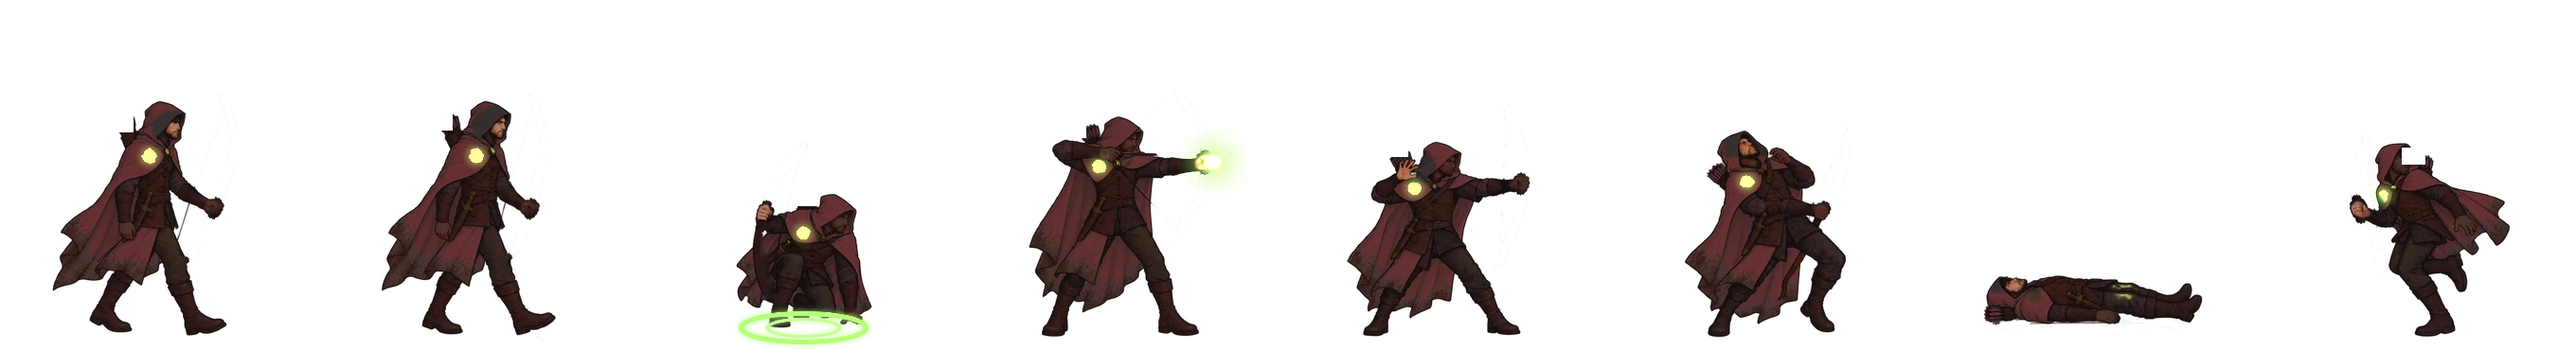
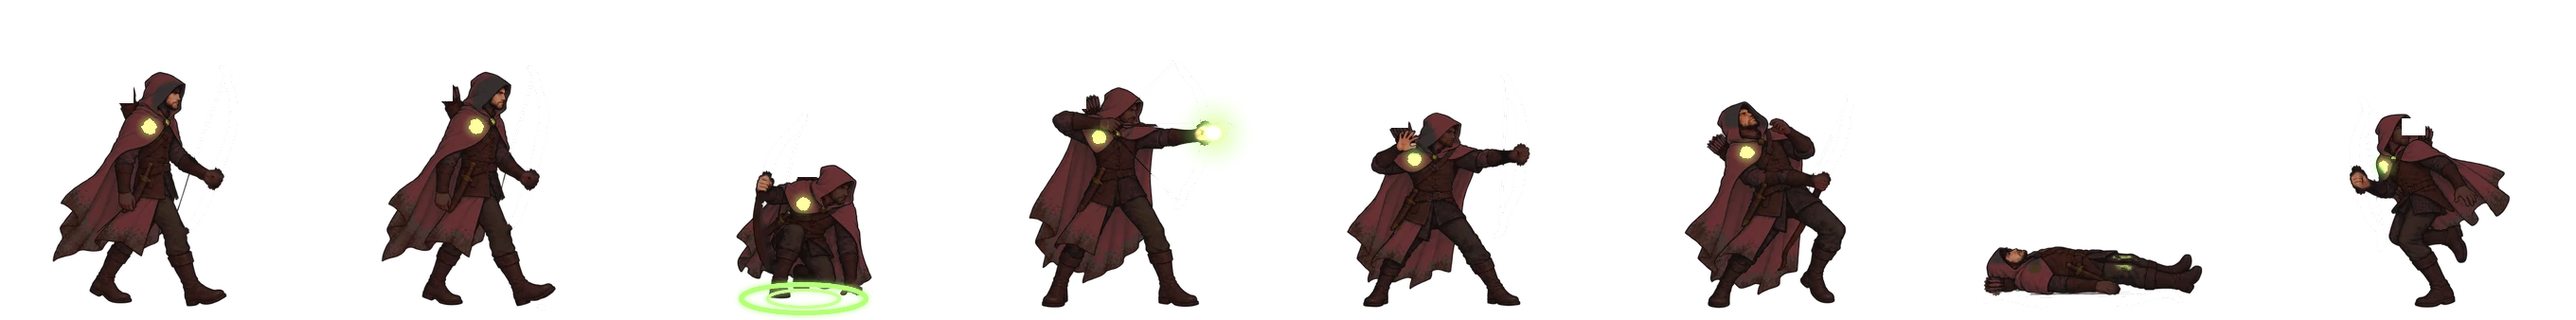
Stage 4 cultist: 340x338 cells so the painted figure stands ~172 px like the painter's

diff --git a/src/stage4.js b/src/stage4.js
@@ -38,8 +38,8 @@ export function queueStage4(scene) {
   img('bg4far', 'assets/bg4/bg4-far.jpg'); img('bg4mid', 'assets/bg4/bg4-mid.webp'); img('bg4mid2', 'assets/bg4/bg4-mid2.webp');
   for (const n of ['', '2', '3']) img('bg4floor' + n, `assets/bg4/bg4-floor${n}.jpg`);
   for (const n of [1, 2, 3]) img('story4p' + n, `assets/story/story4_panel_${n}.jpg`);
-  // Painted cultist sheet (tools/stage4/reskin_cultist.py): same 8 poses as the painter, 340x370 cells.
-  if (!has('s4cult')) L.spritesheet('s4cult', 'assets/bg4/s4cult.webp', { frameWidth: 340, frameHeight: 370 });
+  // Painted cultist sheet (tools/stage4/reskin_cultist.py): same 8 poses as the painter, 340x338 cells.
+  if (!has('s4cult')) L.spritesheet('s4cult', 'assets/bg4/s4cult.webp', { frameWidth: 340, frameHeight: 338 });
   if (scene.cache.json.get('cutthroat.A')) queueCharPages(scene, ['cutthroat']);
   else {
     L.json('cutthroat.A', 'assets/stage3/chars/cutthroat.anims.json');

diff --git a/tools/stage4/reskin_cultist.py b/tools/stage4/reskin_cultist.py
@@ -26,7 +26,7 @@ import reskin_lib as RL
 
 SRC = 'assets/chars'
 OUT = 'assets/bg4/s4cult.webp'
-CELL_W, CELL_H = 340, 370
+CELL_W, CELL_H = 340, 338
 BASE_Y = 327            # archer baseline in its 558x347 source canvas
 FOOT = round(CELL_H * 0.96)
 # (source frame, mirror). The archer faces left; the cultist sheet faces right like the procedural one.

diff --git a/docs/stage4/STATUS.md b/docs/stage4/STATUS.md
@@ -16,7 +16,7 @@ Painted (Grok Bot image generation, 2026-10-07; provenance in `assets/bg4/ART_ST
 
 - `bg4-far.jpg` 1280x602 moonlit skyline. `bg4-mid.webp` 1280x502 (Gate of Aridhol, dry fountain plaza) and `bg4-mid2.webp` 1280x588 (Tower Row, Mordeth's hall), magenta sky keyed to alpha. Three seamless floors at 1080x360, tiled at 188/360. Story panels `story4_panel_1..3.jpg` at 1280x720.
 - They load in `queueStage4` under the procedural texture keys, so the boot painter skips them. A file that fails to load during a session leaves its key to the painter, and the view falls back to the old layout for that layer. On a cold boot straight into `?stage=4`, the startup guard still treats any failed file as a required-asset failure, the same as every other preload file.
-- Cultist sheet `assets/bg4/s4cult.webp` (8 × 340x370): a reskin of the painted Whitecloak archer atlas (`tools/stage4/reskin_cultist.py`, same approach as the Stage 3 cutthroat and Fade). Bow cut out, oxblood and black hooded robes, the sun badge turned into the green charm, chant rings and bolt glow painted in the procedural colours. Same pose order as `cultFrame`. The actor scales the taller cell to the painter's 190 px footprint, so the feet, hitboxes and timing are unchanged. It loads under `s4cult`, and the painter is the fallback.
+- Cultist sheet `assets/bg4/s4cult.webp` (8 × 340x338): a reskin of the painted Whitecloak archer atlas (`tools/stage4/reskin_cultist.py`, same approach as the Stage 3 cutthroat and Fade). Bow cut out, oxblood and black hooded robes, the sun badge turned into the green charm, chant rings and bolt glow painted in the procedural colours. Same pose order as `cultFrame`. The actor scales the taller cell to the painter's 190 px footprint, so the feet, hitboxes and timing are unchanged. It loads under `s4cult`, and the painter is the fallback.
 - Layout (`PLATES` in `src/stage4-view.js`): the two mids sit side by side at native size, parallax 0.29 with a 140 px overlap, bottom at y 590. Floors hand off over 280 px at x 1800 and 3600 and fade 40 px up into the plates. The moon light sits on the painted moon (756, 269).
 
 Placeholder (painted at boot from `src/stage4-art.js`, `src/stage4-art-fog.js`, and `src/stage4-art-cast.js`. Not final art). The HUD `PLACEHOLDER ART` tag shows only with `?debug` while any of this is on screen:
